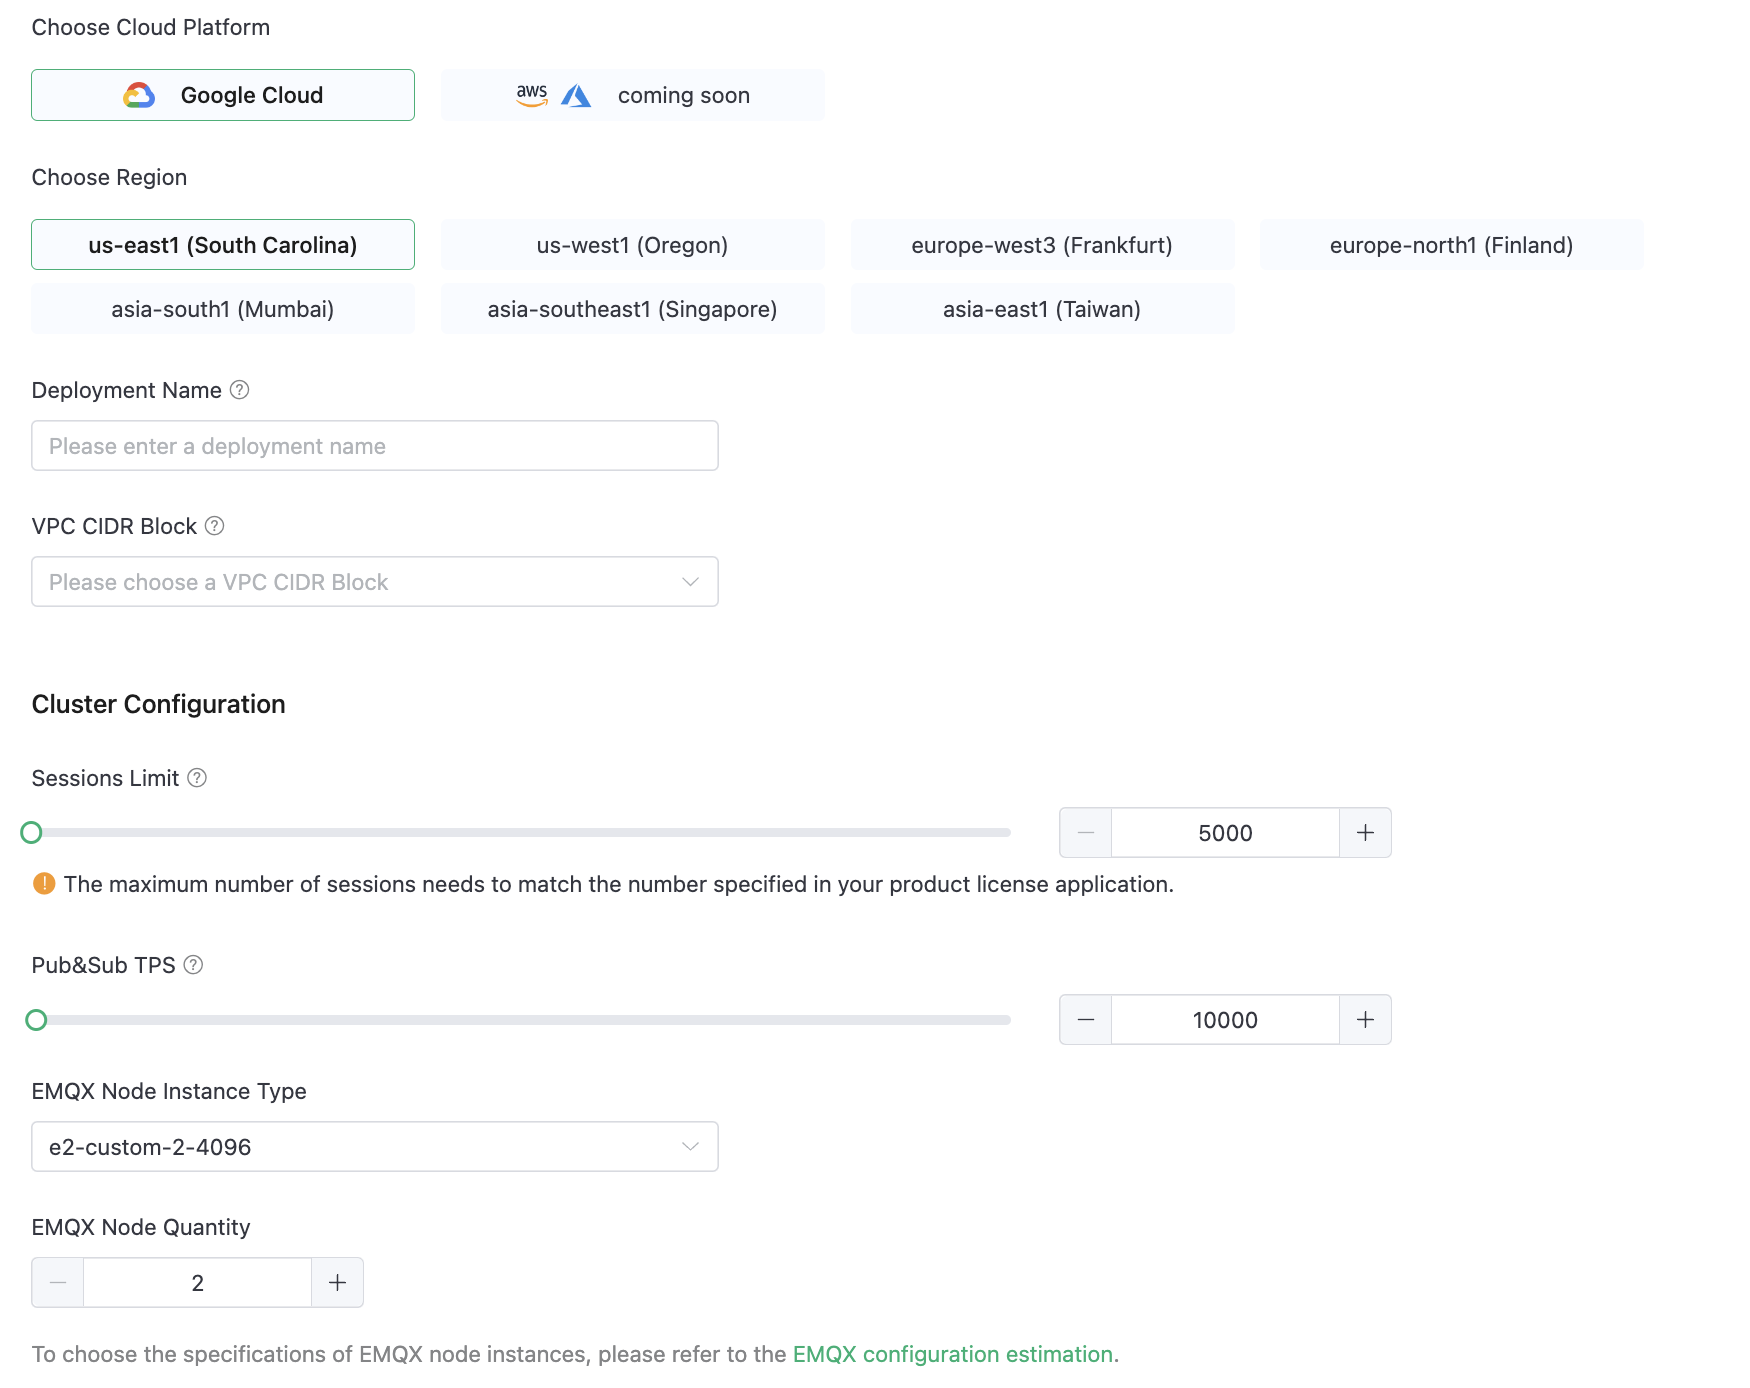
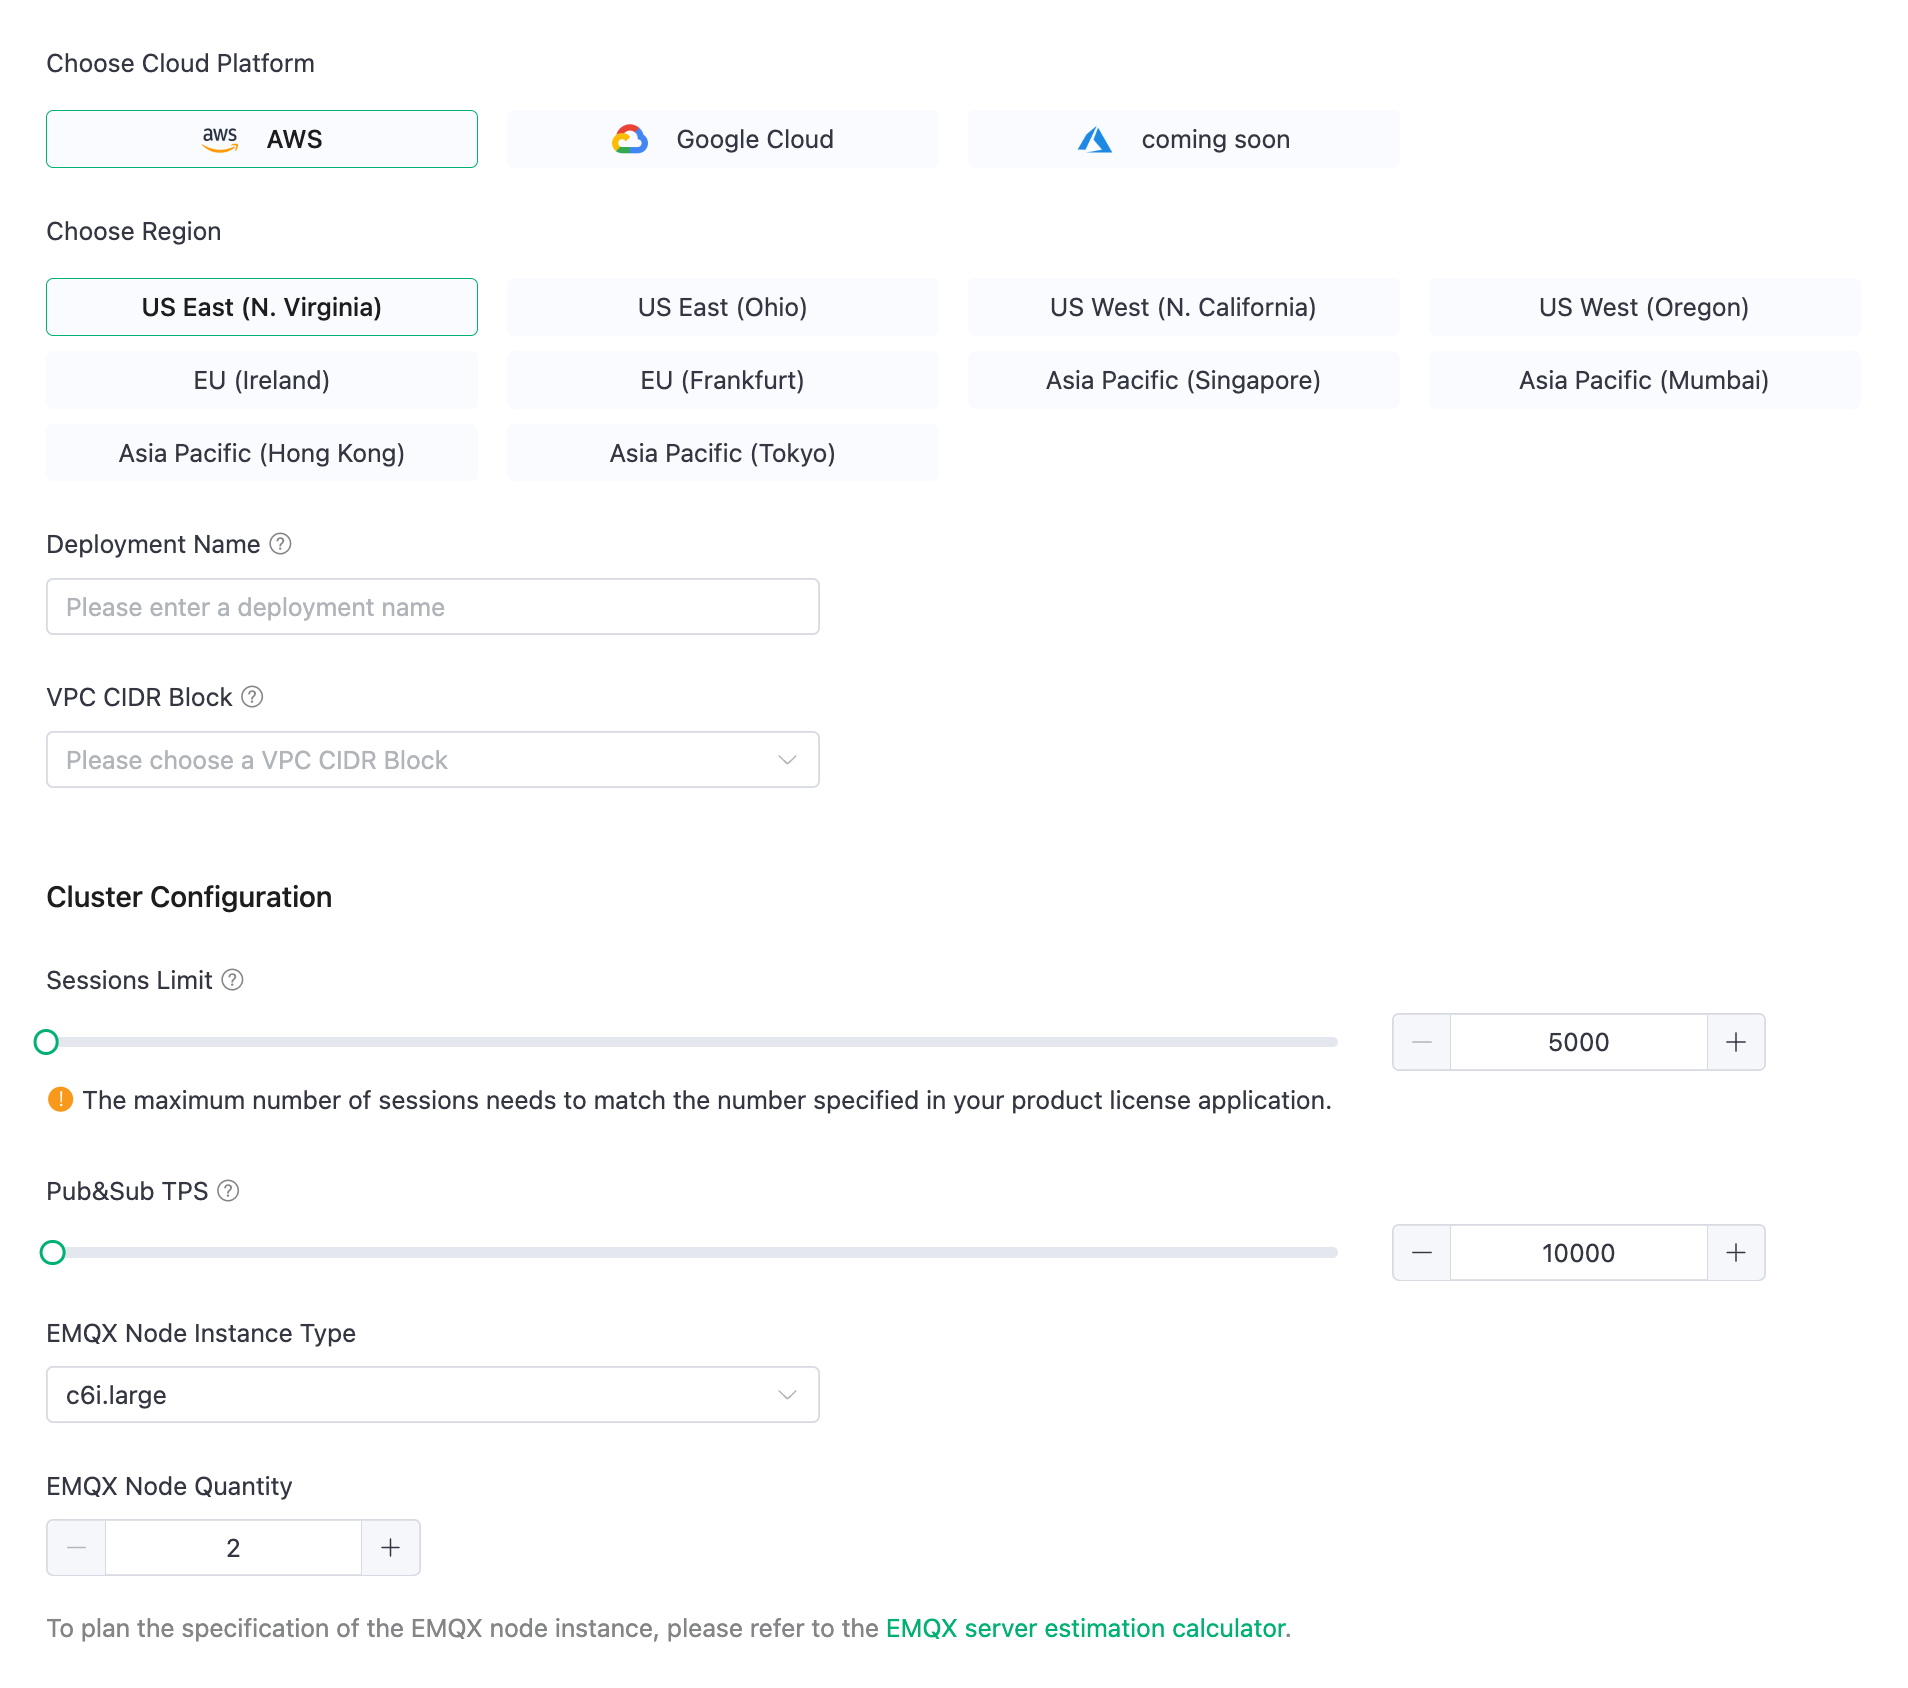
add byoc on aws info

diff --git a/en_US/deployments/byoc_prerequisite.md b/en_US/deployments/byoc_prerequisite.md
@@ -19,10 +19,11 @@ The EMQX Cloud BYOC deployment will be created in your cloud account. If you do 
 
 Currently, BYOC supports the following public clouds and regions. If you need support from other cloud service providers or regions, you can submit a ticket or send an [email](mailto:cloud-support@emqx.io) to contact us.
 
-| Cloud Provider    | Region                                                                                                                                                                                      |
-|-------------------|---------------------------------------------------------------------------------------------------------------------------------------------------------------------------------------------|
-| Google Cloud      | us-east1 (South Carolina), us-west1 (Oregon), us-central1 (Iowa), europe-west3 (Frankfurt), europe-north1 (Finland), asia-south1 (Mumbai), asia-southeast1 (Singapore), asia-east1 (Taiwan) |
-| AWS (coming soon) |                                                                                                                                                                                             |
+| Cloud Provider | Region                                                                                                                                                                                                          |
+|----------------|-----------------------------------------------------------------------------------------------------------------------------------------------------------------------------------------------------------------|
+| AWS            | US East (N. Virginia), US East (Ohio), US West (N. California), US West (Oregon), EU (Ireland), EU (Frankfurt), Asia Pacific (Singapore), Asia Pacific (Mumbai), Asia Pacific (Hong Kong), Asia Pacific (Tokyo) |
+| Google Cloud   | us-east1 (South Carolina), us-west1 (Oregon), us-central1 (Iowa), europe-west3 (Frankfurt), europe-north1 (Finland), asia-south1 (Mumbai), asia-southeast1 (Singapore), asia-east1 (Taiwan)                     |
+
 
 In addition, you also need an EMQX Cloud account to complete the deployment. If you have not registered, please go to the [EMQX Cloud account registration page](https://accounts.emqx.com/signup) to register an account.
 
@@ -37,14 +38,34 @@ The following table shows the cloud resources and services required for EMQX Clo
 ::: tip
 
 Your cloud administrator can quickly view the usage and quotas of resources and services in the cloud quota.
+- [AWS service quotas](https://docs.aws.amazon.com/general/latest/gr/aws_service_limits.html)
 - [Quotas on Google Cloud](https://cloud.google.com/docs/quota_detail/view_manage)
 
-[//]: # "- [AWS service quotas]&#40;https://docs.aws.amazon.com/general/latest/gr/aws_service_limits.html&#41;"
 
 :::
 
 :::: tabs
+::: tab "AWS"
 
+| Resources and Services       | Required Quantity for Deployment |
+|------------------------------|----------------------------------|
+| VPC                          | 1                                |
+| Subnets                      | 3                                |
+| Security groups              | 1                                |
+| Route tables*                | 3                                |
+| Load balancers               | 1                                |
+| LB listeners                 | 6                                |
+| Target groups                | 6                                |
+| Internet gateways            | 1                                |
+| Key pairs                    | 1                                |
+| EC2 instances                | N*+1                             |
+| Amazon Machine Images (AMIs) | 1                                |
+| IAM policies                 | 1                                |
+
+*Route tables: Include a default routing table which is not used.
+
+*N: Refers to the number of EMQX nodes.
+:::
 ::: tab "Google Cloud"
 
 | Resources and Services | Required Quantity for Deployment |
@@ -69,7 +90,99 @@ Your cloud administrator can quickly view the usage and quotas of resources and 
 Your role needs to have the necessary Identity and Access Management (IAM) permissions to run commands to create the cloud resources in your cloud account. You need to ask your cloud administrator to assign sufficient permissions for creating BYOC deployments and generate the corresponding credential.
 
 :::: tabs
+::: tab "AWS"
 
+To create a custom policy, you can utilize the provided policy definition by following the steps in the [Creating policies using the JSON editor](https://docs.aws.amazon.com/IAM/latest/UserGuide/access_policies_create-console.html#access_policies_create-json-editor) documentation. After creating the custom policy, you can attach it to an IAM user. Finally, generate the access key for this IAM user by following the steps in the [Managing access keys for IAM users](https://docs.aws.amazon.com/IAM/latest/UserGuide/id_credentials_access-keys.html) documentation.
+
+Here is the policy definition in JSON:
+```json
+{
+  "Version": "2012-10-17",
+  "Statement": [
+    {
+      "Sid": "VisualEditor0",
+      "Effect": "Allow",
+      "Action": [
+        "ec2:AuthorizeSecurityGroupIngress",
+        "ec2:DeleteSubnet",
+        "ec2:ReplaceRouteTableAssociation",
+        "ec2:DescribeInstances",
+        "elasticloadbalancing:RegisterTargets",
+        "ec2:CreateKeyPair",
+        "ec2:CreateImage",
+        "ec2:AttachInternetGateway",
+        "ec2:ReplaceRoute",
+        "ec2:AssociateRouteTable",
+        "ec2:DeleteRouteTable",
+        "elasticloadbalancing:DeleteLoadBalancer",
+        "ec2:DescribeInternetGateways",
+        "elasticloadbalancing:DescribeLoadBalancers",
+        "ec2:CreateRoute",
+        "ec2:CreateInternetGateway",
+        "ec2:DescribeVolumes",
+        "ec2:DeleteInternetGateway",
+        "ec2:DescribeKeyPairs",
+        "elasticloadbalancing:RegisterInstancesWithLoadBalancer",
+        "elasticloadbalancing:ModifyTargetGroupAttributes",
+        "ec2:DescribeRouteTables",
+        "ec2:ImportKeyPair",
+        "ec2:CreateTags",
+        "elasticloadbalancing:CreateTargetGroup",
+        "ec2:RegisterImage",
+        "ec2:CreateRouteTable",
+        "ec2:RunInstances",
+        "ec2:DetachInternetGateway",
+        "ec2:StopInstances",
+        "ec2:DisassociateRouteTable",
+        "ec2:DescribeVolumeAttribute",
+        "ec2:DescribeInstanceCreditSpecifications",
+        "elasticloadbalancing:DescribeLoadBalancerAttributes",
+        "elasticloadbalancing:DescribeTargetGroupAttributes",
+        "ec2:DescribeSecurityGroupRules",
+        "elasticloadbalancing:AddTags",
+        "ec2:DescribeInstanceTypes",
+        "ec2:DeleteVpc",
+        "ec2:CreateSubnet",
+        "ec2:DescribeSubnets",
+        "elasticloadbalancing:ModifyLoadBalancerAttributes",
+        "ec2:DeleteKeyPair",
+        "ec2:AttachVolume",
+        "ec2:DeregisterImage",
+        "ec2:GetDefaultCreditSpecification",
+        "ec2:DeleteSnapshot",
+        "ec2:DescribeInstanceAttribute",
+        "ec2:DescribeRegions",
+        "ec2:CreateVpc",
+        "ec2:ModifyImageAttribute",
+        "ec2:DescribeVpcAttribute",
+        "ec2:ModifySubnetAttribute",
+        "elasticloadbalancing:CreateListener",
+        "elasticloadbalancing:DescribeListeners",
+        "ec2:DescribeNetworkInterfaces",
+        "ec2:CreateSecurityGroup",
+        "ec2:CreateSnapshot",
+        "ec2:ModifyVpcAttribute",
+        "ec2:DescribeInstanceStatus",
+        "elasticloadbalancing:CreateLoadBalancer",
+        "ec2:TerminateInstances",
+        "elasticloadbalancing:DescribeTags",
+        "ec2:DescribeTags",
+        "elasticloadbalancing:DeleteTargetGroup",
+        "elasticloadbalancing:CreateLoadBalancerListeners",
+        "ec2:DescribeSecurityGroups",
+        "ec2:DescribeImages",
+        "ec2:DescribeVpcs",
+        "ec2:DeleteSecurityGroup",
+        "elasticloadbalancing:DescribeTargetHealth",
+        "elasticloadbalancing:DescribeTargetGroups",
+        "elasticloadbalancing:DeleteListener"
+      ],
+      "Resource": "*"
+    }
+  ]
+}
+```
+:::
 ::: tab "Google Cloud"
 
 To create a custom role using the gcloud CLI, you can utilize the provided role definition by following the steps outlined in the [Creating Custom Roles](https://cloud.google.com/iam/docs/creating-custom-roles) documentation. After creating the custom role, you can bind it to a service account. Finally, generate the service account key.

diff --git a/en_US/create/byoc.md b/en_US/create/byoc.md
@@ -20,7 +20,7 @@ Before you create a BYOC deployment, you must prepare an account corresponding t
 
    **Cloud platform configuration**
 
-   - **Choose Cloud Platform**: Select **Google Cloud**.
+   - **Choose Cloud Platform**: Select **AWS** or **Google Cloud**.
 
      If you want to deploy on other cloud platforms, you can contact us through a [ticket](../feature/tickets.md) or [email](mailto:cloud-support@emqx.io).
 
@@ -54,6 +54,68 @@ Next, we'll start the deployment by following the steps in the **Deployment Guid
 ## Run Deployment
 
 We will complete the deployment in an Ubuntu 20.04 (AMD64) environment with a public network connection. Before you start, copy your TLS/SSL certificates and BYOC license files required for deployment to your Ubuntu environment directory.
+
+:::: tabs
+::: tab "AWS"
+
+1. Open the prepared Ubuntu 20.04 (AMD64) environment.
+
+   ::: tip
+
+   This Ubuntu environment should be able to access the internet.
+
+   :::
+
+2. In the Ubuntu command line interface, use the command below to download the toolkit and save it to your Ubuntu directory.
+
+   ```bash
+   wget https://cloudassets.emqx.com/en/byoc-deployments/1.1/create-aws-byoc-deployment.tar.gz
+   ```
+
+3. Use the command line below to unzip the downloaded toolkit and navigate to the unzipped folder directory.
+
+   ```bash
+   tar -zxf create-aws-byoc-deployment.tar.gz && cd create-aws-byoc-deployment
+   ```
+
+4. Populate the actual parameters for the fields in the `./byoc create` command:
+
+   ```bash
+   ./byoc create \
+         --platform aws \
+         --accessKey <Your AccessKey> \
+         --secretKey <Your SecretKey> \
+         --domain <Your Domain> \
+         --sslCertPath <Your Domain SSL Absolute Cert Path>  \
+         --emqxLicPath <Your EMQX License Absolute Path> \
+         --byocEndpoint https://cloud-intl.emqx.com \
+         --byocKey abcdXXXXXXXXXX111
+   ```
+
+   - `--accessKey`: Enter your access key ID for your AWS IAM user.
+   - `--secretKey`: Enter your secret access key for your AWS IAM user.
+   - `--domain`: Enter the domain name of the MQTT service in the deployment through which subsequent clients will access the MQTT service.
+   - `--sslCertPath`: Specify the absolute path where the TLS/SSL certificate is located. Self-signed certificates and CA-signed certificates are supported. For SSL certificate format requirements, refer to [TLS/SSL Configuration - Certificate Requirements](../deployments/tls_ssl.md#Certificate-Requirements). Note: BYOC provides custom one-way TLS/SSL authentication.
+   - `--emqxLicPath`：Enter the absolute path where the EMQX Cloud BYOC license file is located.
+
+   Do not modify the following three values that are automatically filled in when the deployment guide is generated in the console.
+
+   - `--platform` specifies the cloud provider.
+   - `--byocEndpoint` is the EMQX Cloud access address.
+   - `--byocKey` is the authentication key for BYOC deployment. The generated byocKey is valid for one hour, and should be executed as soon as possible after generating the script command.
+
+5. Execute the `./byoc create` command and wait for a few minutes. The system prompts you to confirm the cloud resource that needs to be created. Enter `yes` to continue.
+
+   ```bash
+   Do you want to perform these actions?
+     Terraform will perform the actions described above.
+     Only 'yes' will be accepted to approve.
+   
+     Enter a value: 
+   ```
+
+:::
+::: tab "Google Cloud"
 
 1. Open the prepared Ubuntu 20.04 (AMD64) environment. 
 
@@ -110,6 +172,8 @@ We will complete the deployment in an Ubuntu 20.04 (AMD64) environment with a pu
    
      Enter a value: 
    ```
+:::
+::::
 
 ## Add DNS Record
 
@@ -172,10 +236,10 @@ Return to the **Deployment Guide** page and click **Complete**. It will lead you
 
 ### VPC Peering Configuration
 
-A VPC peering is a network connection between two VPCs that allows two VPCs in different networks to communicate with each other. This feature is provided by a cloud service provider and supports peering connections between the VPC where the BYOC is deployed and other VPCs in the same cloud service provider. To configure the VPC peering, refer to the VPC Peering documentation for each public cloud: [VPC Network Peering | Google Cloud](https://cloud.google.com/vpc/docs/vpc-peering).
+A VPC peering is a network connection between two VPCs that allows two VPCs in different networks to communicate with each other. This feature is provided by a cloud service provider and supports peering connections between the VPC where the BYOC is deployed and other VPCs in the same cloud service provider. To configure the VPC peering, refer to the VPC Peering documentation for each public cloud: [Working with VPC Peering - Amazon Web Service](https://docs.aws.amazon.com/vpc/latest/peering/working-with-vpc-peering.html) and [VPC Network Peering - Google Cloud](https://cloud.google.com/vpc/docs/vpc-peering).
 ### NAT Gateway Configuration
 
-The NAT gateway provided by the public cloud platform can provide network address translation services and provide BYOC deployments with the ability to access public network resources without the need for VPC peering connections. You can add NAT gateways in the VPC where BYOC is deployed. For more information, refer to the public cloud NAT gateway documentation: [Cloud NAT | Google Cloud](https://cloud.google.com/nat/docs/overview).
+The NAT gateway provided by the public cloud platform can provide network address translation services and provide BYOC deployments with the ability to access public network resources without the need for VPC peering connections. You can add NAT gateways in the VPC where BYOC is deployed. For more information, refer to the public cloud NAT gateway documentation: [NAT Gateways - Amazon Web Service](https://docs.aws.amazon.com/vpc/latest/userguide/vpc-nat-gateway.html) and [Cloud NAT - Google Cloud](https://cloud.google.com/nat/docs/overview).
 ## Connect to Deployment
 
 You can connect to the deployment using any MQTT client tool for testing, for example, the recommended [MQTTX](../connect_to_deployments/mqttx.md).
